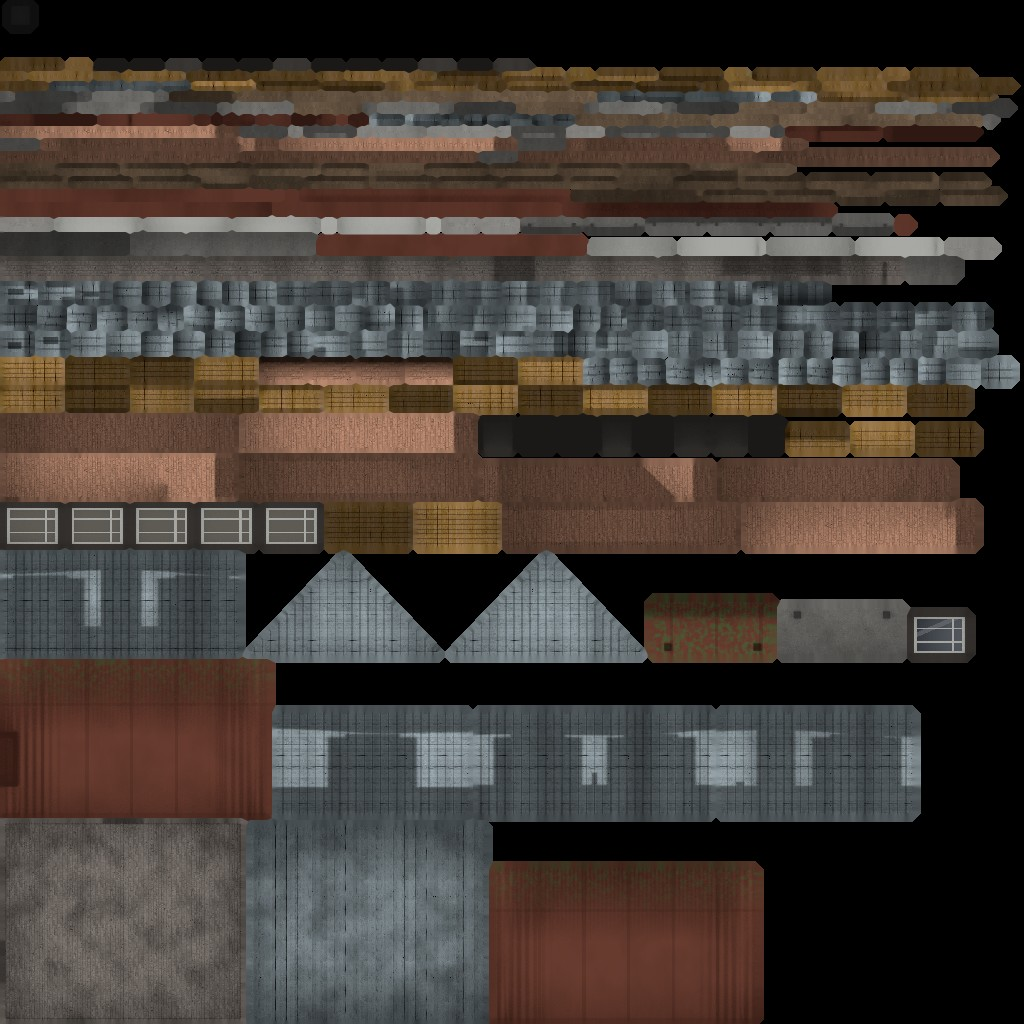
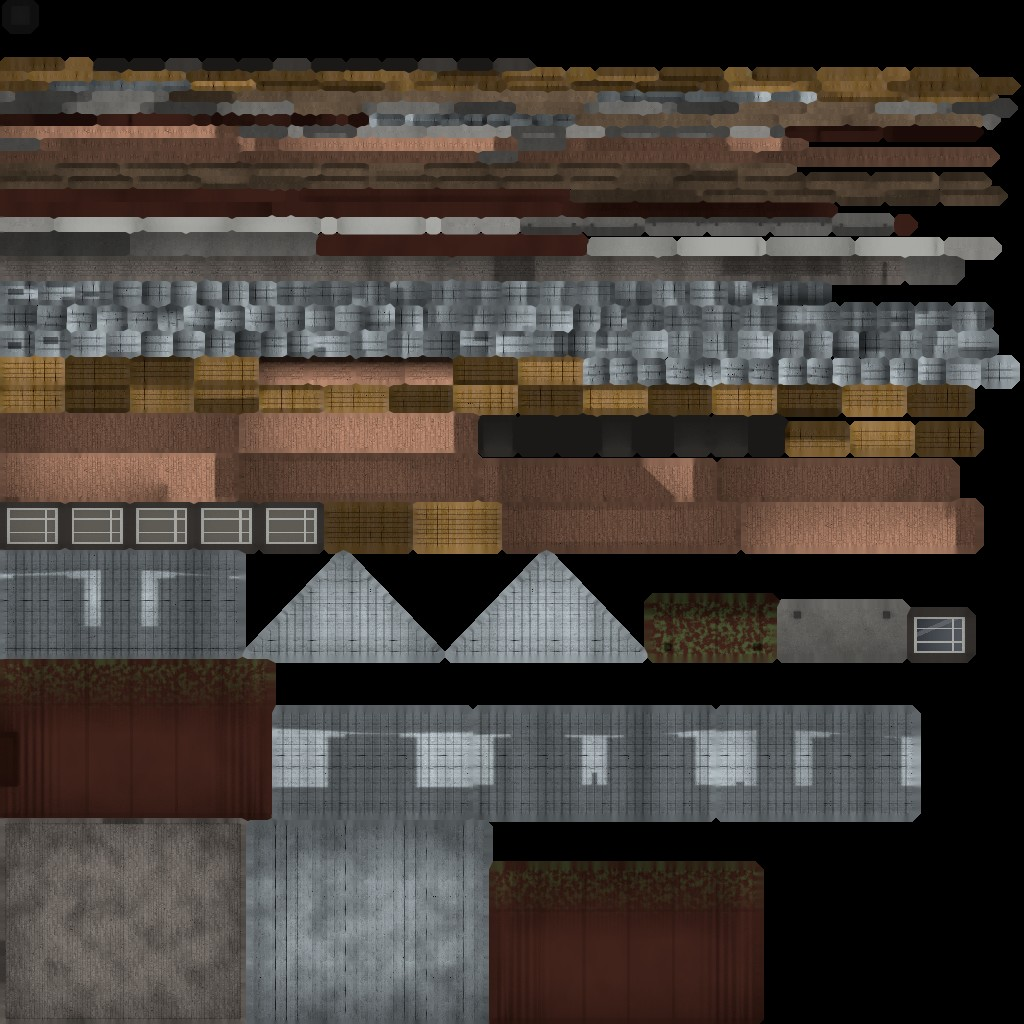
fix(props): дах h8 темніший за побілені дошки, точки заміру з урахуванням центру габариту
- house_h8: свій червоно-брунатний oxide_deep (темніший за oxide_dark h4) і світліші дошки — на сонячному
  скаті Перехрестя дах/стіна ≤ 0.6;
- roof_contrast: finish ставить у початок GLB центр габариту, тож ґанок і приставний димар зсувають модель;
  точки даху й стіни беруться з поправкою на цей центр.

diff --git a/tools/blender/buildings/lib.py b/tools/blender/buildings/lib.py
@@ -792,7 +792,7 @@ ROOFS = {"asb": ("asb", (0.60, 0.59, 0.55)), "asb_old": ("asb", (0.50, 0.50, 0.4
          # дахи хат — лише справжні сільські кольори (сірий шифер, темна вишня, червоно-брунатний, справжній темно-зелений,
          # темно-коричневий без жовтизни; без оливи й вохри) і в кадрі бою не світліші за 0.6 стіни (гамма-яскравість sRGB)
          "asb_dark": ("asb", (0.3, 0.3, 0.29)), "asb_black": ("asb", (0.12, 0.12, 0.115)), "brown_dark": ("tile", (0.25, 0.15, 0.12)), "graphite_dark": ("tile", (0.268, 0.279, 0.311)),
-         "oxide_dark": ("corr", (0.415, 0.238, 0.188)), "cherry_dark": ("tile", (0.32, 0.125, 0.125)), "green_dark": ("corr", (0.15, 0.32, 0.21)), "green_mid": ("corr", (0.16, 0.35, 0.23))}
+         "oxide_dark": ("corr", (0.415, 0.238, 0.188)), "oxide_deep": ("corr", (0.26, 0.14, 0.11)), "cherry_dark": ("tile", (0.32, 0.125, 0.125)), "green_dark": ("corr", (0.15, 0.32, 0.21)), "green_mid": ("corr", (0.16, 0.35, 0.23))}
 
 
 def roof_mat(name, kind, srgb, rows_axis, other, eave=3.0, row=0.34, moss=True, sheet=(1.1, 1.6), cell_amp=0.14, streak=0.25):

diff --git a/tools/blender/buildings/build_houses.py b/tools/blender/buildings/build_houses.py
@@ -484,7 +484,7 @@ def house8():
     профлист червоно-брунатний, віконниці, ґанок із дашком до камери, цегляний димар біля фронтону."""
     lib.reset()
     b = Builder()
-    lib.palette(roof="oxide_dark", eave=2.9, chim="ch_orange", boards=(0.55, 0.60, 0.62), trim=(0.40, 0.33, 0.26))
+    lib.palette(roof="oxide_deep", eave=2.9, chim="ch_orange", boards=(0.66, 0.70, 0.72), trim=(0.40, 0.33, 0.26))
     RING[:] = ["trim", 0.08, True]
     b.win_kind = 0
     L, D, EAVE, RIDGE = 5.8, 4.8, 2.9, 5.4                                     # з ґанком і димарем 7.2 x 6.5 м: влазить у клітинку
